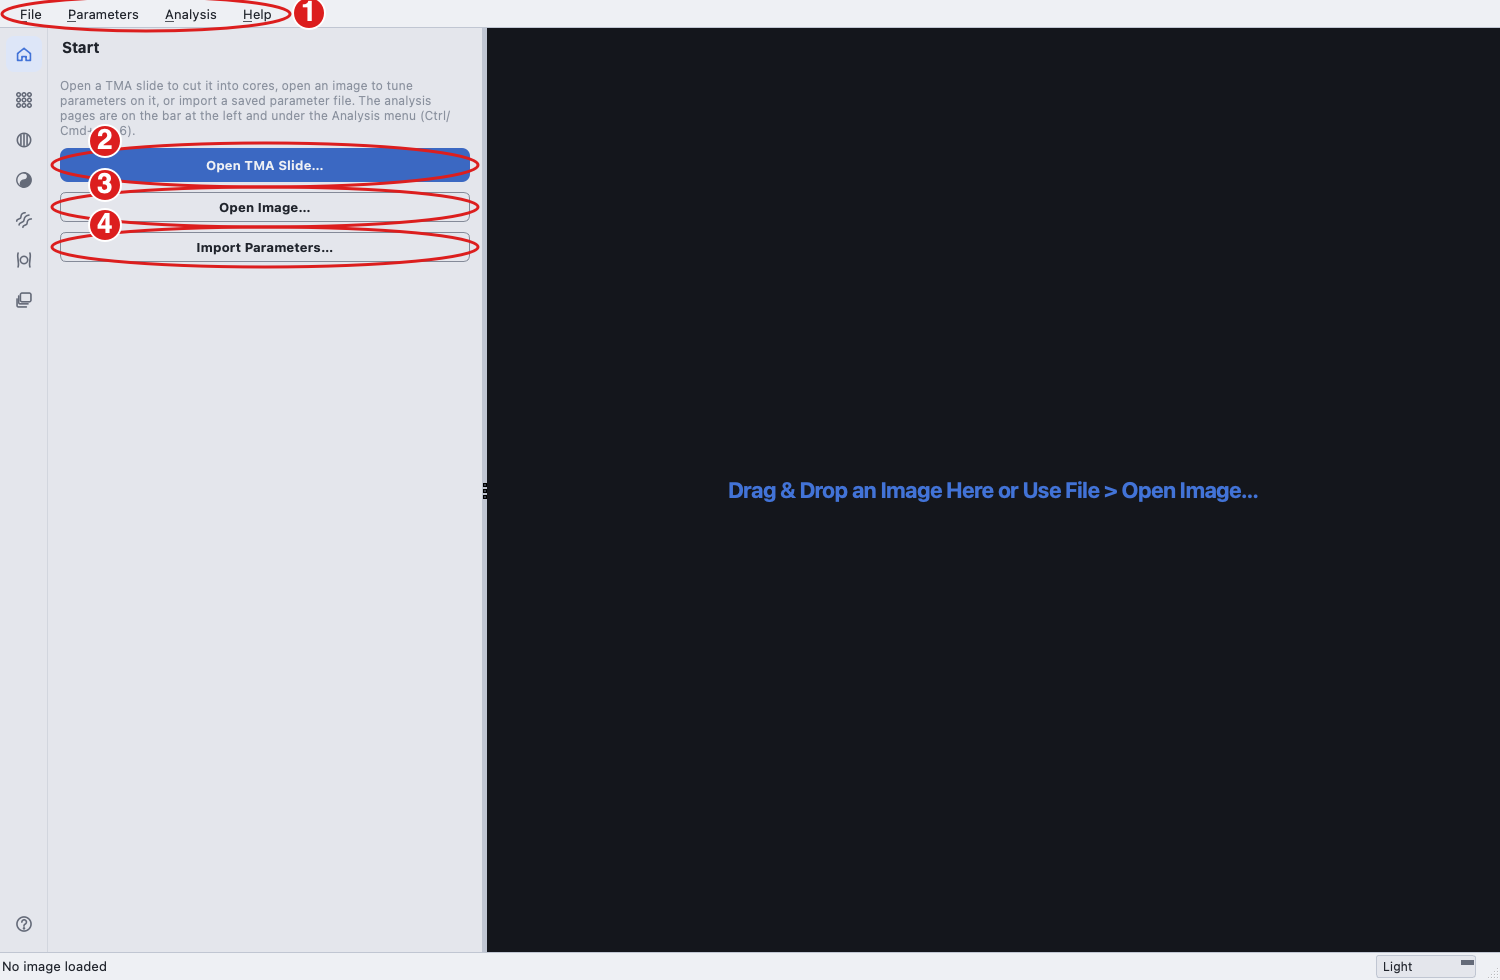
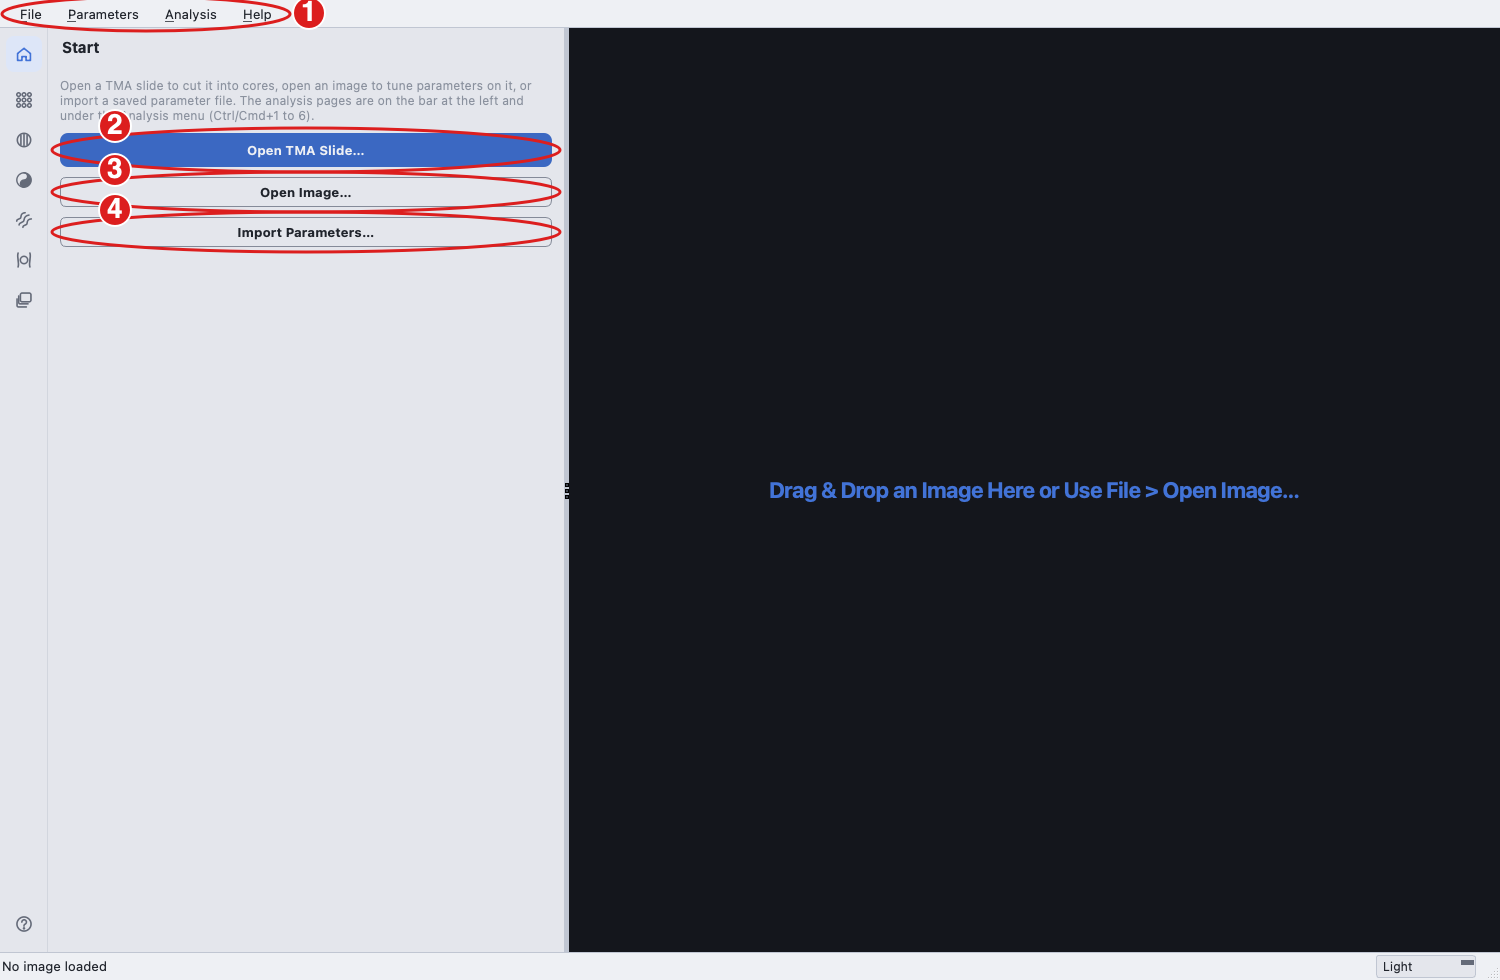
TMA page in two aligned columns, smaller colour swatch
- Short TMA fields sit in two fixed columns; second-column labels and
  checkboxes line up, and paired fields end at the card's right edge.
- Load/Save Edits and the BF/POL channels move into the card title bars;
  a click on a title-bar control never folds the card.
- Smaller Colour of interest swatch.
- Doc screenshots no longer change the user's saved theme.

Changed region(s): [[0.0307, 0.0306, 0.3987, 0.9796], [0.4907, 0.4898, 0.8587, 0.5204]]

diff --git a/cabana/cabana_gui.py b/cabana/cabana_gui.py
@@ -16,7 +16,7 @@ from PyQt5.QtWidgets import (QApplication, QMainWindow, QLabel, QSpinBox,
                              QMessageBox, QGroupBox, QComboBox, QWidget,
                              QStatusBar, QLineEdit, QDoubleSpinBox, QStackedWidget, QGridLayout,
                              QAction, QActionGroup, QDialog, QScrollArea, QFrame, QLayout)
-from PyQt5.QtGui import QIcon, QPalette, QFont, QKeySequence
+from PyQt5.QtGui import QIcon, QPalette, QFont, QFontMetrics, QKeySequence
 from PyQt5.QtCore import QPointF, QSettings, QTimer, QUrl
 from PyQt5.QtGui import QDesktopServices
 
@@ -569,6 +569,7 @@ class MainWindow(QMainWindow):
         return self._ask_tma("Quit Cabana", "Quit Cabana?", "If you quit now:\n- " + "\n- ".join(risks),
                              "Confirm", "Cancel")
 
+    TMA_LABEL_WIDTH = 90      # TMA labels are short: the narrower column leaves room for paired fields
     MAP_LOAD_ITEM = "__load_map__"
 
     def _tma_selected_map(self):
@@ -968,16 +969,15 @@ class MainWindow(QMainWindow):
         """Set up the TMA preprocessing page: Fit, Filter, Edit and Export cards
         (load slide -> fit cores -> correct -> export)."""
         layout = self._page_layout(spacing=10)
-
-        def spin_row(*widgets):
-            row = QHBoxLayout()
-            row.setSpacing(12)
-            for w in widgets:
-                row.addWidget(w)
-            return row
+        # two columns: short fields in the field column, a fixed block at the right edge
+        font = QFont()
+        font.setPixelSize(FONT_SIZES['base'])
+        second = max(QFontMetrics(font).horizontalAdvance(t) for t in ("Orientation", "Min stain", "Mask shrink"))
+        split = dict(field_width=140, label2_width=second + 4, right_width=120)
 
         # --- Fit -------------------------------------------------------------
         fit = SectionCard("Fit", compact=True)
+        fit.LABEL_WIDTH = self.TMA_LABEL_WIDTH
         fit.title_label.setToolTip("Settings for Fit Cores; fit again after changing them.")
         self.tma_slide_path = PathEdit("", icon="file")
         self.tma_slide_path.setPlaceholderText("Olympus .vsi, TIFF or PNG")
@@ -1009,7 +1009,7 @@ class MainWindow(QMainWindow):
             "can mistake a rotation for its mirror, so check the control cores. Relabels at once.")
         self.tma_orientation_combo.currentIndexChanged.connect(self._tma_map_changed)
         self.tma_array_combo.currentIndexChanged.connect(self._tma_array_selected)
-        fit.add_row("Orientation", self.tma_orientation_combo)
+        self.tma_orientation_combo.setFixedWidth(104)
 
         self.tma_pixel_size_spin = QDoubleSpinBox()
         self.tma_pixel_size_spin.setRange(0.01, 50.0)
@@ -1020,7 +1020,7 @@ class MainWindow(QMainWindow):
         self.tma_pixel_size_spin.setFixedWidth(140)
         self.tma_pixel_size_spin.setStyleSheet(self.spinner_style)
         self.tma_pixel_size_spin.setToolTip("Filled from the slide metadata when available.")
-        fit.add_row("Pixel size", self.tma_pixel_size_spin, stretch=False)
+        fit.add_split_row("Pixel size", self.tma_pixel_size_spin, self.tma_orientation_combo, "Orientation", **split)
 
         self.tma_core_auto_cb = QCheckBox("Auto")
         self.tma_core_auto_cb.setChecked(True)
@@ -1038,7 +1038,7 @@ class MainWindow(QMainWindow):
         self.tma_core_diameter_spin.setEnabled(False)
         self._set_tma_core_tooltip()
         self.tma_core_auto_cb.toggled.connect(self._tma_core_auto_toggled)
-        fit.add_row("Core Ø", spin_row(self.tma_core_diameter_spin, self.tma_core_auto_cb), stretch=False)
+        fit.add_split_row("Core Ø", self.tma_core_diameter_spin, self.tma_core_auto_cb, **split)
 
         self.tma_sat_spin = QSpinBox()
         self.tma_sat_spin.setRange(2, 60)
@@ -1053,7 +1053,7 @@ class MainWindow(QMainWindow):
         self.tma_recover_cb.setStyleSheet(self.checkbox_style)
         self.tma_recover_cb.setToolTip(
             "Look for pale cores at empty grid positions and add them (purple).")
-        fit.add_row("Sensitivity", spin_row(self.tma_sat_spin, self.tma_recover_cb), stretch=False)
+        fit.add_split_row("Sensitivity", self.tma_sat_spin, self.tma_recover_cb, **split)
 
         self.tma_fit_btn = self._primary_button("Fit Cores")
         self.tma_fit_btn.setEnabled(False)
@@ -1069,6 +1069,7 @@ class MainWindow(QMainWindow):
         # --- Filter ----------------------------------------------------------
         # QC filters re-evaluate instantly on the fitted cores (no refit).
         self.tma_filter_card = flt = SectionCard("Filter", compact=True)
+        flt.LABEL_WIDTH = self.TMA_LABEL_WIDTH
         flt.title_label.setToolTip(
             "Quality filters; changes update the overlay at once. Excluded cores are grey with\n"
             "a cross and not exported. Filters never change patient IDs.")
@@ -1089,29 +1090,23 @@ class MainWindow(QMainWindow):
 
         self.tma_offset_spin = _spin(0.05, 1.0, 0.35, 0.05, " pitch",
                                      "Exclude cores this far from their grid position (fraction of the core spacing);\n"
-                                     "catches debris.", decimals=2)
+                                     "catches debris.", decimals=2, width=132)
         self.tma_stain_spin = _spin(0, 100, 2, 1, " %",
-                                    "Exclude patient cores with less stained area than this; controls are exempt.")
+                                    "Exclude patient cores with less stained area than this; controls are exempt.",
+                                    width=106)
         self.tma_dmin_spin = _spin(10, 100, 80, 5, " %",
                                    "Exclude cores smaller than this share of Core Ø; lower it to keep partial cores.",
                                    width=106)
         self.tma_dmax_spin = _spin(100, 300, 120, 5, " %",
                                    "Exclude cores larger than this share of Core Ø.", width=106)
-        flt.add_row("Grid offset", self.tma_offset_spin, stretch=False)
-        flt.add_row("Min stain", self.tma_stain_spin, stretch=False)
-        size_row = QHBoxLayout()
-        size_row.setSpacing(6)
-        size_row.addWidget(self.tma_dmin_spin)
-        to = QLabel("to")
-        to.setObjectName("rowLabel")
-        size_row.addWidget(to)
-        size_row.addWidget(self.tma_dmax_spin)
-        flt.add_row("Core size", size_row, stretch=False)
+        flt.add_split_row("Grid offset", self.tma_offset_spin, self.tma_stain_spin, "Min stain", **split)
+        flt.add_split_row("Core size", self.tma_dmin_spin, self.tma_dmax_spin, "to", **split)
         layout.addWidget(flt)
 
         # --- Edit ------------------------------------------------------------
         # Hand corrections of the fitted circles; every edit re-snaps to the grid.
         self.tma_edit_card = edit = SectionCard("Edit", compact=True)
+        edit.LABEL_WIDTH = self.TMA_LABEL_WIDTH
         edit.title_label.setToolTip(
             "Correct the fit by hand; a moved or added core takes the patient ID of its grid cell.\n"
             "Edits are saved with the export and offered back after refitting.")
@@ -1140,51 +1135,52 @@ class MainWindow(QMainWindow):
         edit_layout.addWidget(self.tma_undo_btn)
         edit.add_layout(edit_layout)
 
-        edits_file_layout = QHBoxLayout()
-        edits_file_layout.setSpacing(8)
+        # loading and saving edits sit in the title bar: one row for the card
         self.tma_load_edits_btn = QPushButton("Load Edits…")
-        self.tma_load_edits_btn.setStyleSheet(self.btn_style)
+        self.tma_load_edits_btn.setObjectName("headerButton")
         self.tma_load_edits_btn.setEnabled(False)
         self.tma_load_edits_btn.setToolTip(
             f"Load hand edits saved earlier ({EDITS_FILE}), with the orientation and map position.")
         self.tma_load_edits_btn.clicked.connect(self.open_tma_edits)
-        edits_file_layout.addWidget(self.tma_load_edits_btn)
+        edit.add_header_widget(self.tma_load_edits_btn)
         self.tma_save_edits_btn = QPushButton("Save Edits…")
-        self.tma_save_edits_btn.setStyleSheet(self.btn_style)
+        self.tma_save_edits_btn.setObjectName("headerButton")
         self.tma_save_edits_btn.setEnabled(False)
         self.tma_save_edits_btn.setToolTip(
             f"Save the cores, orientation and map position as {EDITS_FILE} without exporting;\n"
             "they are offered back after the next fit.")
         self.tma_save_edits_btn.clicked.connect(self.save_tma_edits)
-        edits_file_layout.addWidget(self.tma_save_edits_btn)
-        edit.add_layout(edits_file_layout)
+        edit.add_header_widget(self.tma_save_edits_btn)
         layout.addWidget(edit)
 
         # --- Export ----------------------------------------------------------
         # Settings below only affect Export Cores; changing them needs no refit.
         self.tma_export_card = export = SectionCard("Export", compact=True)
+        export.LABEL_WIDTH = self.TMA_LABEL_WIDTH
         export.title_label.setToolTip("Settings for Export Cores; no refit needed.")
         self.tma_margin_spin = QSpinBox()
         self.tma_margin_spin.setRange(0, 1000)
         self.tma_margin_spin.setSingleStep(10)
         self.tma_margin_spin.setValue(30)
         self.tma_margin_spin.setSuffix(" µm")
-        self.tma_margin_spin.setFixedWidth(140)
+        self.tma_margin_spin.setFixedWidth(122)
         self.tma_margin_spin.setStyleSheet(self.spinner_style)
         self.tma_margin_spin.setToolTip("Extra border around the fitted circle in each crop.")
-        export.add_row("Margin", self.tma_margin_spin, stretch=False)
 
         self.tma_erode_spin = QSpinBox()
         self.tma_erode_spin.setRange(0, 200)
         self.tma_erode_spin.setValue(8)
         self.tma_erode_spin.setSuffix(" px")
-        self.tma_erode_spin.setFixedWidth(140)
+        self.tma_erode_spin.setFixedWidth(112)
         self.tma_erode_spin.setStyleSheet(self.spinner_style)
         self.tma_erode_spin.setToolTip("Shrinks the core mask so the core edge is left out.")
-        export.add_row("Mask shrink", self.tma_erode_spin, stretch=False)
+        export.add_split_row("Margin", self.tma_margin_spin, self.tma_erode_spin, "Mask shrink", **split)
 
-        ch_layout = QHBoxLayout()
-        ch_layout.setSpacing(18)
+        # the channels sit in the title bar
+        self.tma_channels_box = QWidget()
+        ch_layout = QHBoxLayout(self.tma_channels_box)
+        ch_layout.setContentsMargins(0, 0, 0, 0)
+        ch_layout.setSpacing(14)
         self.tma_channel_cbs = {}
         ch_hints = {"BF": "Bright-field layer; analyse it with Dark line on.",
                     "POL": "Polarised-light layer; separate its bands on the Birefringence page,\n"
@@ -1194,11 +1190,11 @@ class MainWindow(QMainWindow):
             cb.setChecked(True)
             cb.setEnabled(False)
             cb.setStyleSheet(self.checkbox_style)
-            cb.setToolTip(ch_hints[name])
+            cb.setToolTip(ch_hints[name] + "\nSlide layers to export, one image per core each; "
+                                           "available after Fit Cores.")
             self.tma_channel_cbs[name] = cb
             ch_layout.addWidget(cb)
-        ch_label = export.add_row("Channels", ch_layout, stretch=False)
-        ch_label.setToolTip("Slide layers to export, one image per core each. Available after Fit Cores.")
+        export.add_header_widget(self.tma_channels_box)
 
         self.tma_output_path = PathEdit("")
         self.tma_output_path.setPlaceholderText("Defaults to <slide>_cores")
@@ -2198,8 +2194,8 @@ class MainWindow(QMainWindow):
         swatch.setSpacing(10)
         self.color_btn = QPushButton("")
         self.color_btn.setStyleSheet(
-            f"background-color: #f53282; border: 1px solid {color_to_stylesheet(COLORS['border'])}; border-radius: 5px;")
-        self.color_btn.setFixedSize(QSize(24, 24))
+            f"background-color: #f53282; border: 1px solid {color_to_stylesheet(COLORS['border'])}; border-radius: 4px;")
+        self.color_btn.setFixedSize(QSize(18, 18))
         self.color_btn.clicked.connect(self.select_color)
         self.color_btn.setToolTip("Colour of the structures to keep, e.g. Picrosirius Red collagen; click to pick.")
         swatch.addWidget(self.color_btn)
@@ -4042,7 +4038,7 @@ class MainWindow(QMainWindow):
 
         # Buttons
         for btn in (self.start_open_btn, self.start_params_btn, self.cancel_batch_btn,
-                     self.tma_cancel_btn, self.tma_undo_btn, self.tma_load_edits_btn, self.tma_save_edits_btn):
+                     self.tma_cancel_btn, self.tma_undo_btn):
             btn.setStyleSheet(self.btn_style)
 
         # Primary buttons

diff --git a/cabana/ui.py b/cabana/ui.py
@@ -583,6 +583,11 @@ def generate_panel_style():
         }}
         QLabel#sectionTitle {{ color: {color_to_stylesheet(COLORS['text'])}; background: transparent;
             font-size: {FONT_SIZES['base'] + 1}px; font-weight: 600; }}
+        QPushButton#headerButton {{ border: 1px solid transparent; border-radius: 4px; background: transparent;
+            color: {color_to_stylesheet(COLORS['highlight'])}; font-size: {small}px; padding: 2px 6px; }}
+        QPushButton#headerButton:hover {{ text-decoration: underline; }}
+        QPushButton#headerButton:disabled {{ color: {faint}; }}
+        QPushButton#headerButton:focus {{ border-color: {color_to_stylesheet(COLORS['highlight'])}; }}
         QLabel#rowValue, QLabel#note, QLabel#optionNote {{
             color: {faint}; background: transparent; font-size: {small}px; }}
         QLabel#rowLabel, QLabel#optionTitle {{ color: {color_to_stylesheet(COLORS['text_dim'])};
@@ -860,7 +865,7 @@ class SectionCard(QFrame):
         self.header.setObjectName("sectionHeader")
         self.header.setCursor(Qt.PointingHandCursor)
         self.header.setFocusPolicy(Qt.TabFocus)
-        self.header.mousePressEvent = lambda event: self.set_open(not self._open)
+        self.header.mousePressEvent = self._header_press
         self.header.keyPressEvent = self._header_key
         head = QHBoxLayout(self.header)
         head.setContentsMargins(10, 10, 12, 10)
@@ -901,7 +906,50 @@ class SectionCard(QFrame):
         self._open = True
         self.restyle()
 
+    def _header_press(self, event):
+        # a click on a title-bar control (even a disabled one) never folds the card
+        child = self.header.childAt(event.pos())
+        if child is None or child in (self.title_label, self.chevron):
+            self.set_open(not self._open)
+
     # --- content -------------------------------------------------------
+    def add_header_widget(self, widget):
+        """A control in the title bar, right-aligned (it stays visible when the card is folded)."""
+        self.header_right.addWidget(widget)
+
+    def add_split_row(self, label, left, right, label2=None, field_width=128, label2_width=80, right_width=None):
+        """A row in two columns: ``left`` (a short field) in the field column and
+        ``right`` (a field after ``label2``, or a checkbox) in a block of fixed
+        width at the right edge, so every split row lines up with the others
+        and with the full-width fields. ``right_width`` defaults to ``field_width``.
+        Returns both labels."""
+        row = QHBoxLayout()
+        row.setSpacing(0)
+        left.setFixedWidth(field_width)
+        row.addWidget(left)
+        row.addSpacing(12)
+        row.addStretch(1)
+        block = QWidget()
+        right_width = right_width or field_width
+        block.setFixedWidth(label2_width + 8 + right_width)
+        inner = QHBoxLayout(block)
+        inner.setContentsMargins(0, 0, 0, 0)
+        inner.setSpacing(8)
+        lab2 = None
+        if label2 is not None:
+            lab2 = QLabel(label2)
+            lab2.setObjectName("rowLabel")
+            lab2.setFixedWidth(label2_width)
+            lab2.setToolTip(right.toolTip())
+            inner.addWidget(lab2)
+            right.setFixedWidth(right_width)
+            inner.addWidget(right)
+        else:
+            inner.addWidget(right)
+            inner.addStretch(1)
+        row.addWidget(block)
+        return self.add_row(label, row), lab2
+
     def _row_label(self, text, width):
         label = QLabel(text)
         label.setObjectName("rowLabel")

diff --git a/docs/make_screenshots.py b/docs/make_screenshots.py
@@ -116,12 +116,28 @@ def grab(win, name, marks):
 
 
 # ------------------------------------------------------------------- pages --
+class _FakeSettings:
+    """Stand-in for QSettings, so the screenshots leave the user's settings alone."""
+    store = {}
+
+    def __init__(self, *a):
+        pass
+
+    def value(self, key, default=None, **kw):
+        return self.store.get(key, default)
+
+    def setValue(self, key, value):
+        self.store[key] = value
+
+
 def main(argv):
     only = set(argv)
     want = lambda name: not only or name in only  # noqa: E731
 
     app = QApplication.instance() or QApplication([])
+    import cabana.cabana_gui as gui
     from cabana.cabana_gui import MainWindow
+    gui.QSettings = _FakeSettings      # the Light screenshots never change the user's theme or folders
     MainWindow.check_updates_on_start = False
     MainWindow.startup_messages = False
     win = MainWindow()         # maximises itself to the 800x600 offscreen screen
@@ -240,13 +256,13 @@ def main(argv):
                        label="core fitting")
             grab(win, "tma.png", [
                 (1, rect_of(win, win.tma_slide_path), "right"),
-                (2, rect_of(win, win.tma_array_combo), "left"),
-                (3, union(win, (win.tma_core_auto_cb, win.tma_core_diameter_spin, win.tma_sat_spin, win.tma_recover_cb))),
+                (2, rect_of(win, win.tma_array_combo), "right"),
+                (3, union(win, (win.tma_core_auto_cb, win.tma_core_diameter_spin, win.tma_sat_spin, win.tma_recover_cb)), "right"),
                 (4, rect_of(win, win.tma_fit_btn)),
-                (5, union(win, (win.tma_offset_spin, win.tma_stain_spin, win.tma_dmin_spin, win.tma_dmax_spin))),
+                (5, union(win, (win.tma_offset_spin, win.tma_stain_spin, win.tma_dmin_spin, win.tma_dmax_spin)), "right"),
                 (6, union(win, (win.tma_edit_cb, win.tma_links_cb, win.tma_undo_btn,
-                                 win.tma_load_edits_btn, win.tma_save_edits_btn))),
-                (7, union(win, (win.tma_margin_spin, win.tma_erode_spin, *win.tma_channel_cbs.values()))),
+                                 win.tma_load_edits_btn, win.tma_save_edits_btn)), "right"),
+                (7, union(win, (win.tma_margin_spin, win.tma_erode_spin, *win.tma_channel_cbs.values())), "right"),
                 (8, rect_of(win, win.tma_output_path), "right"),
                 (9, rect_of(win, win.tma_export_btn), "below"),
             ])

diff --git a/tests/test_tour.py b/tests/test_tour.py
@@ -175,3 +175,16 @@ def test_page_rail_opens_pages_and_folds_the_panel(win, app):
     rail.help_btn.click()
     assert win._tour is not None
     win._tour.end()
+
+
+def test_title_bar_controls_do_not_fold_the_card(win, app):
+    from PyQt5.QtTest import QTest
+    win.show_page(win.pages.indexOf(win.tma_tab))
+    settle(app)
+    card = win.tma_export_card
+    box = win.tma_channel_cbs["BF"]
+    assert not box.isEnabled() and card.header.isAncestorOf(box)    # disabled until Fit Cores
+    QTest.mouseClick(box, Qt.LeftButton)
+    assert card.is_open()
+    QTest.mouseClick(win.tma_edit_card.header, Qt.LeftButton, pos=win.tma_edit_card.title_label.geometry().center())
+    assert not win.tma_edit_card.is_open()                           # the title still folds it

diff --git a/docs/source/tma.md b/docs/source/tma.md
@@ -63,10 +63,10 @@ before exporting, and exporting can be repeated into a different folder.
    instantly without a refit (see [Quality filters](#quality-filters)).
 6. **Edit.** *Edit cores* turns on hand correction of the circles on the
    overlay, *Grid lines* shows or hides the lattice and *Undo* reverts the
-   last edit; **Load Edits…** and **Save Edits…** reinstate or keep hand
+   last edit; **Load Edits…** and **Save Edits…** in the card's title bar reinstate or keep hand
    edits without exporting (see [Editing cores by hand](#editing-cores-by-hand)).
 7. **Export settings.** *Margin* around each circle, *Mask shrink*, and the
-   channels (BF, POL) to write.
+   channels to write (BF, POL, in the card's title bar).
 8. **Output folder** for the export. Opening a slide always sets it to
    `<slide>_cores`, placed in the folder that held the output folder you last
    chose with its folder icon (remembered between sessions), or beside the slide

diff --git a/docs/source/tma_tutorial.md b/docs/source/tma_tutorial.md
@@ -46,7 +46,7 @@ described in detail on the [TMA preprocessing](tma.md) page.
      takes the patient ID of the cell it lands in (see
      [Editing cores by hand](tma.md#editing-cores-by-hand)).
 5. Check the **Output folder** (defaults to `<slide>_cores` next to the slide),
-   tick the **Channels** to export and click **Export Cores**. A 20x slide
+   tick the channels to export (**BF**, **POL**, in the Export title bar) and click **Export Cores**. A 20x slide
    with 80 cores exports in one to two minutes. The dialog at the end offers
    **Use BF in Batch Run** and **Use POL in Batch Run**.
 
